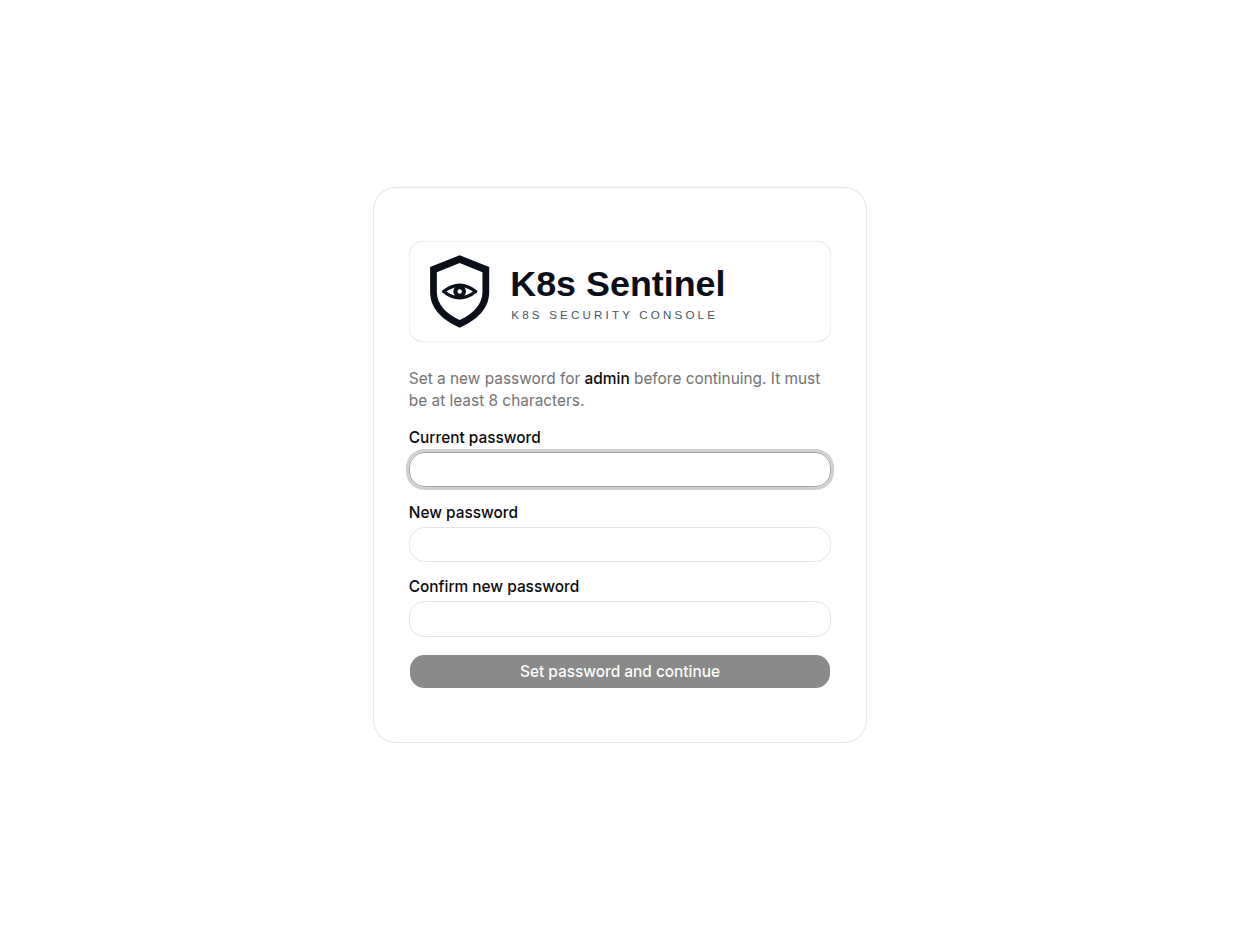
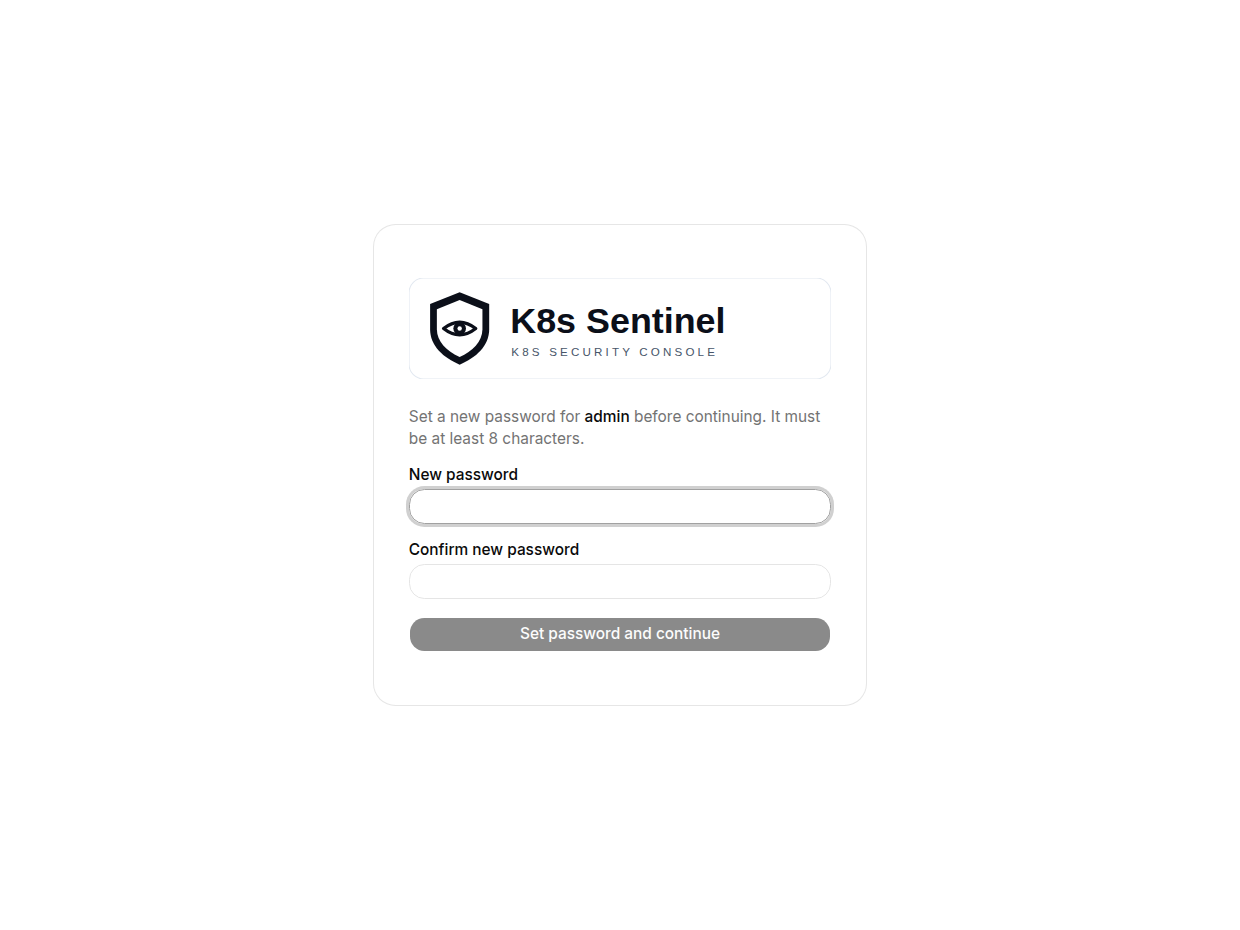
docs: sync with K8s Sentinel v0.54-v0.59 (zh-TW + EN)
- First login (v0.58.1): the forced password-change screen no longer
  asks for the current password (it appears seconds after signing in
  with the public bootstrap password); field table updated, screenshot
  retaken on v0.59.0, and the users page notes the one exception to
  the current-password requirement
- Admission Policy: seven rule types become nine - ConfigMap Size
  (v0.55) and Secret Size (v0.57) with the v0.58 single total-size cap
  semantics (grow-forbidden grandfather clause, 200-key cost guard,
  managed-Secret exemptions, base64-decoded measurement); rule
  descriptions updated for the v0.59 bypass fixes (initContainers and
  ephemeral debug containers, scale-subresource capping, RC matching,
  registry-port and case-insensitivity); Apply To gains Namespaces;
  known coverage limits noted (capabilities, hostPort)
- Binding builder (v0.54): namespace scope with All / Only these /
  All except these, multi-select, with the kube-system exclusion tip
- Admission form screenshot retaken showing all nine rule types

Changed region(s): [[0.3065, 0.2806, 0.6742, 0.7484]]

diff --git a/i18n/en/docusaurus-plugin-content-docs/current/features/admission-policy.md b/i18n/en/docusaurus-plugin-content-docs/current/features/admission-policy.md
@@ -31,26 +31,32 @@ Click **"+ New Policy"** in the top-right corner to open the visual builder.
 
 ### Supported Rule Types
 
-K8s Sentinel provides seven built-in rule types covering the most common Kubernetes admission validation needs:
+K8s Sentinel provides nine built-in rule types (ConfigMap Size added in v0.55, Secret Size in v0.57) covering the most common Kubernetes admission validation needs:
 
 | Rule Type | Description |
 |---|---|
-| **Label Check** | Require or deny resources with a specific label key=value |
-| **Annotation Check** | Require or deny resources with a specific annotation |
-| **Image Policy** | Control which container image registries or image names are allowed |
-| **Replica Limit** | Enforce a maximum or minimum replica count on Deployments / StatefulSets |
-| **Resource Limits** | Require containers to define CPU / Memory requests and limits |
-| **Security Context** | Enforce or deny specific Pod Security Context settings (e.g., forbid `runAsRoot`) |
-| **Host Access** | Restrict Pod usage of hostPID, hostNetwork, hostIPC, and similar host-sharing options |
+| **Label Check** | Require or forbid specific label key=value pairs; multiple rules supported |
+| **Annotation Check** | Require or forbid specific annotation key=value pairs |
+| **Image Policy** | Forbid the `:latest` tag and require images from named registries. Since v0.59 it covers **initContainers and ephemeral (debug) containers**, the registry prefix compares case-insensitively, and an untagged image with a registry port (`myreg:5000/app`) is correctly refused |
+| **Replica Limit** | Cap replicas on Deployments / StatefulSets. Since v0.59 **`kubectl scale` and HPA via the scale subresource are capped too** |
+| **Resource Limits** | Require CPU / Memory limits, covering every workload type and initContainers |
+| **Security Context** | Forbid privileged containers and require runAsNonRoot (honouring pod- and container-level inheritance). Covers ephemeral (debug) containers since v0.59 |
+| **Host Access** | Forbid hostNetwork, hostPID and hostIPC host-sharing options |
+| **ConfigMap Size** (v0.55+) | Cap a ConfigMap's **total size** (KB; `data` plus `binaryData`, key names included). A new object must fit the cap; an existing oversized one may stay or shrink but **not grow** |
+| **Secret Size** (v0.57+) | The same total-size cap for Secrets, with `data` measured base64-**decoded**; managed types (`kubernetes.io/service-account-token`, `bootstrap.kubernetes.io/token`, `helm.sh/release.v1`) are exempt |
 
 ### Form Fields
 
 | Field | Description |
 |---|---|
 | **Policy Name** | The `ValidatingAdmissionPolicy` resource name - must follow Kubernetes naming conventions |
-| **Rule Type** | Select one of the seven rule types above |
-| **Apply To** | Choose which resource types this policy applies to (Pod, Deployment, StatefulSet, DaemonSet, Job, CronJob, or all) |
-| **Rule details** | Fields specific to the selected rule type appear below |
+| **Rule Type** | Select one of the nine rule types above |
+| **Apply To** | Choose which resource types this policy applies to (All Workloads, Pod, Deployment, StatefulSet, DaemonSet, Job, CronJob, and since v0.59 Namespaces); workload rules also match ReplicationControllers |
+| **Rule details** | Fields specific to the selected rule type appear below; a blank Violation Message uses a concrete default (previewed live as the field placeholder) |
+
+:::note[Known coverage limits]
+The size rules skip objects with more than 200 keys (a cost-budget guard, so a huge object can never become permanently unwritable under `failurePolicy: Fail`); the Security Context rule does not cover `capabilities`-based privilege; Host Access does not cover `hostPort`.
+:::
 
 ### Live YAML Preview
 
@@ -74,7 +80,19 @@ Switch to the **"Bindings"** tab to manage `ValidatingAdmissionPolicyBinding` re
 
 ![Bindings tab](/img/features/admission-policy/bindings.png)
 
-A Binding associates an existing ValidatingAdmissionPolicy with specific Namespaces or resources and configures the action on violation (Deny / Warn / Audit).
+A Binding associates an existing ValidatingAdmissionPolicy with a scope and configures the action on violation (Deny / Audit / Warn).
+
+The **namespace scope** (v0.54+) offers three modes, all multi-selectable:
+
+| Mode | Description |
+|---|---|
+| **All namespaces** | No filter, cluster-wide (the hint notes this includes `kube-system`) |
+| **Only these namespaces** | Applies only in the selected namespaces (`matchExpressions` with `In`) |
+| **All except these namespaces** | Applies everywhere but the selected ones (`NotIn`), e.g. the classic cluster-wide guardrail excluding `kube-system` / `kube-public` / `kube-node-lease` |
+
+:::tip
+Pair the ConfigMap / Secret Size rules with an "All except" binding that excludes `kube-system` and friends, so kubelet and controller writes are never blocked.
+:::
 
 **How it works:** K8s Sentinel creates `ValidatingAdmissionPolicy` and `ValidatingAdmissionPolicyBinding` resources via the Kubernetes API Server. For each resource request matching `matchConstraints`, the API Server evaluates the CEL expression and, based on `failurePolicy`, either rejects or warns.
 

diff --git a/i18n/en/docusaurus-plugin-content-docs/current/login.md b/i18n/en/docusaurus-plugin-content-docs/current/login.md
@@ -31,11 +31,12 @@ On the first sign-in with the default `admin` / `admin`, the console **forces yo
 
 | Field | Description |
 |---|---|
-| **Current password** | The current password (`admin` on first login) |
 | **New password** | The new password, **at least 8 characters** |
 | **Confirm new password** | Repeat the new password |
 
 Click "**Set password and continue**" to enter the console.
+
+Since v0.58.1 this screen **no longer asks for the current password**: it only appears seconds after signing in with the public bootstrap password, so asking again proved nothing. The skip applies **only while the forced-change flag is set**; once it clears, changing your own password requires the current one as before (protecting against a hijacked session).
 
 This gate is **enforced server-side**: while the flag is set, the backend only allows reading your own account info and changing your own password; there is no way around it. The flag clears once the password changes.
 

diff --git a/docs/login.md b/docs/login.md
@@ -31,11 +31,12 @@ sidebar_position: 5
 
 | 欄位 | 說明 |
 |---|---|
-| **Current password** | 輸入目前密碼（首次登入即 `admin`） |
 | **New password** | 新密碼，**至少 8 個字元** |
 | **Confirm new password** | 再次輸入新密碼確認 |
 
 填寫完成後點擊「**Set password and continue**」即進入主控台。
+
+v0.58.1 起此畫面**不再要求輸入目前密碼**：它只會在以公開的預設密碼登入後數秒內出現，再問一次目前密碼證明不了任何事。此簡化**僅適用於強制變更旗標生效期間**；旗標清除後，變更自己的密碼仍需輸入目前密碼（防止被劫持的 Session 竄改密碼）。
 
 此限制由**伺服器端強制執行**：在旗標尚未清除前，後端僅允許查詢自身帳號資訊與變更自身密碼兩個 API，無法以任何方式略過。密碼變更完成後旗標即清除。
 

diff --git a/i18n/en/docusaurus-plugin-content-docs/current/features/users.md b/i18n/en/docusaurus-plugin-content-docs/current/features/users.md
@@ -38,7 +38,7 @@ Click "**Change Password**" on an account row to open the dialog:
 Password security rules (v0.47+):
 
 - **New passwords must be at least 8 characters** (enforced server-side)
-- **Changing your own password requires the current password**, so a hijacked session cannot silently lock the owner out
+- **Changing your own password requires the current password**, so a hijacked session cannot silently lock the owner out (one exception: the forced first-login change screen skips it, v0.58.1)
 - An admin **resetting another account's** password is a separate action that does not need the old one, but is audited all the same
 - Every password change, including an attempt rejected for a wrong current password, is recorded in the [Audit Log](./audit-log.md)
 

diff --git a/docs/features/users.md b/docs/features/users.md
@@ -38,7 +38,7 @@ sidebar_position: 13
 密碼安全規則（v0.47+）：
 
 - **新密碼至少 8 個字元**（伺服器端強制）
-- **變更自己的密碼需輸入目前密碼（Current Password）**，被劫持的 Session 無法無聲地把帳號主人鎖在門外
+- **變更自己的密碼需輸入目前密碼（Current Password）**，被劫持的 Session 無法無聲地把帳號主人鎖在門外（唯一例外：首次登入的強制變更畫面不需目前密碼，v0.58.1）
 - admin **重設其他帳號**的密碼屬於獨立操作，不需要舊密碼，但同樣會寫入稽核
 - 每一次密碼變更（含因目前密碼錯誤而被拒絕的嘗試）都會記錄在 [Audit Log](./audit-log.md)
 
